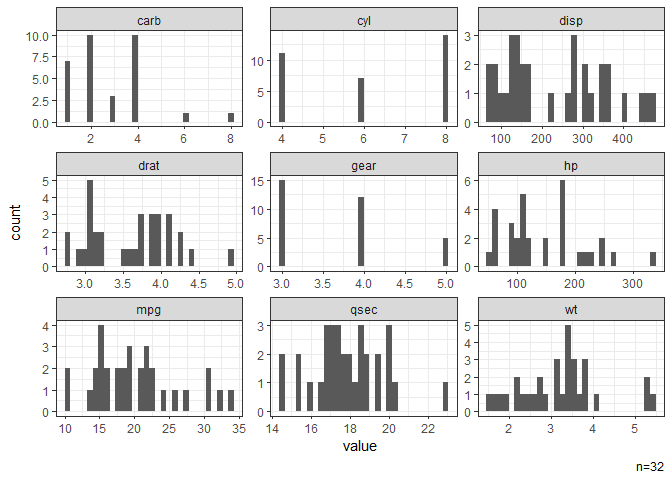
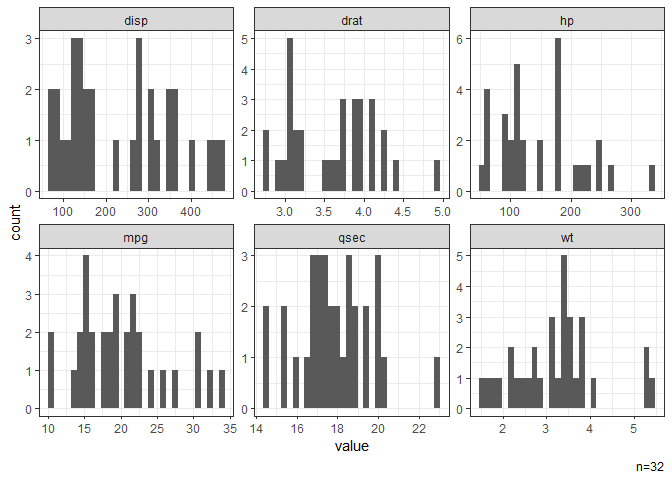
Update README

diff --git a/README.md b/README.md
@@ -65,25 +65,22 @@ It is often helpful to see a quick summary of the dataset.
 library(edar)
 
 # Data 
-dat = mtcars |> dplyr::mutate(vs=factor(vs), am=factor(am))
+dat = mtcars |> dplyr::mutate(across(c(am,carb,cyl,gear,vs),factor))
 
 # Summaries of all continuous variables in a data frame. 
 dat |> summ_by()
 #> NB: Non-numeric variables are dropped.
-#> Dropped: vs am
+#> Dropped: cyl vs am gear carb
 #> Adding missing grouping variables: `name`
-#> # A tibble: 9 × 10
+#> # A tibble: 6 × 10
 #>   name      n   nNA   Mean      SD   Min    P25    Med    P75    Max
 #>   <chr> <int> <int>  <dbl>   <dbl> <dbl>  <dbl>  <dbl>  <dbl>  <dbl>
-#> 1 carb     32     0   2.81   1.62   1      2      2      4      8   
-#> 2 cyl      32     0   6.19   1.79   4      4      6      8      8   
-#> 3 disp     32     0 231.   124.    71.1  121.   196.   326    472   
-#> 4 drat     32     0   3.60   0.535  2.76   3.08   3.70   3.92   4.93
-#> 5 gear     32     0   3.69   0.738  3      3      4      4      5   
-#> 6 hp       32     0 147.    68.6   52     96.5  123    180    335   
-#> 7 mpg      32     0  20.1    6.03  10.4   15.4   19.2   22.8   33.9 
-#> 8 qsec     32     0  17.8    1.79  14.5   16.9   17.7   18.9   22.9 
-#> 9 wt       32     0   3.22   0.978  1.51   2.58   3.32   3.61   5.42
+#> 1 disp     32     0 231.   124.    71.1  121.   196.   326    472   
+#> 2 drat     32     0   3.60   0.535  2.76   3.08   3.70   3.92   4.93
+#> 3 hp       32     0 147.    68.6   52     96.5  123    180    335   
+#> 4 mpg      32     0  20.1    6.03  10.4   15.4   19.2   22.8   33.9 
+#> 5 qsec     32     0  17.8    1.79  14.5   16.9   17.7   18.9   22.9 
+#> 6 wt       32     0   3.22   0.978  1.51   2.58   3.32   3.61   5.42
 
 # Summaries of a selected variable after grouping. 
 dat |> summ_by(mpg,vs)
@@ -93,21 +90,18 @@ dat |> summ_by(mpg,vs)
 #>   <fct> <int> <int> <dbl> <dbl> <dbl> <dbl> <dbl> <dbl> <dbl>
 #> 1 0        18     0  16.6  3.86  10.4  14.8  15.6  19.1  26  
 #> 2 1        14     0  24.6  5.38  17.8  21.4  22.8  29.6  33.9
-dat |> summ_by(mpg,vs,am)
-#> Adding missing grouping variables: `vs`, `am`
-#> # A tibble: 4 × 11
-#> # Groups:   vs [2]
-#>   vs    am        n   nNA  Mean    SD   Min   P25   Med   P75   Max
-#>   <fct> <fct> <int> <int> <dbl> <dbl> <dbl> <dbl> <dbl> <dbl> <dbl>
-#> 1 0     0        12     0  15.0  2.77  10.4  14.0  15.2  16.6  19.2
-#> 2 0     1         6     0  19.8  4.01  15    16.8  20.4  21    26  
-#> 3 1     0         7     0  20.7  2.47  17.8  18.6  21.4  22.2  24.4
-#> 4 1     1         7     0  28.4  4.76  21.4  25.0  30.4  31.4  33.9
 
 # Summaries of all categorical variables in a data frame. 
 dat |> summ_cat()
 #> NB: Numeric variables are dropped.
-#> Dropped: mpg cyl disp hp drat wt qsec gear carb
+#> Dropped: mpg disp hp drat wt qsec
+#> $cyl
+#>    cyl  n percent
+#>      4 11 0.34375
+#>      6  7 0.21875
+#>      8 14 0.43750
+#>  Total 32 1.00000
+#> 
 #> $vs
 #>     vs  n percent
 #>      0 18  0.5625
@@ -119,9 +113,29 @@ dat |> summ_cat()
 #>      0 19 0.59375
 #>      1 13 0.40625
 #>  Total 32 1.00000
+#> 
+#> $gear
+#>   gear  n percent
+#>      3 15 0.46875
+#>      4 12 0.37500
+#>      5  5 0.15625
+#>  Total 32 1.00000
+#> 
+#> $carb
+#>   carb  n percent
+#>      1  7 0.21875
+#>      2 10 0.31250
+#>      3  3 0.09375
+#>      4 10 0.31250
+#>      6  1 0.03125
+#>      8  1 0.03125
+#>  Total 32 1.00000
 ```
 
 ### Visualisation
+
+Distributions of variables can be quickly visualised for exploratory
+graphical analysis.
 
 ``` r
 library(ggplot2)
@@ -131,34 +145,38 @@ set_theme(theme_bw())
 # Histograms of all continuous variables in a dataset. 
 dat |> gghist()
 #> NB: Non-numeric variables are dropped.
-#> Dropped: vs am
+#> Dropped: cyl vs am gear carb
 ```
 
 <img src="man/figures/README-unnamed-chunk-4-1.png" width="70%" />
 
 ``` r
 
-# Box plots of selected variable by all categorical variables in a dataset. 
+# Box plots of a selected variable by all categorical variables in a dataset. 
 dat |> ggbox(mpg)
 #> NB: Numeric variables are dropped.
-#> Dropped: cyl disp hp drat wt qsec gear carb
+#> Dropped: disp hp drat wt qsec
 ```
 
 <img src="man/figures/README-unnamed-chunk-4-2.png" width="70%" />
 
 ``` r
 
-# Violin plots of selected variable by all categorical variables in a dataset. 
+# Violin plots of a selected variable by all categorical variables in a dataset. 
 dat |> ggvio(mpg)
 #> NB: Numeric variables are dropped.
-#> Dropped: cyl disp hp drat wt qsec gear carb
+#> Dropped: disp hp drat wt qsec
+#> Warning: Groups with fewer than two datapoints have been dropped.
+#> ℹ Set `drop = FALSE` to consider such groups for position adjustment purposes.
+#> Warning: Groups with fewer than two datapoints have been dropped.
+#> ℹ Set `drop = FALSE` to consider such groups for position adjustment purposes.
 ```
 
 <img src="man/figures/README-unnamed-chunk-4-3.png" width="70%" />
 
 ### Tables
 
-Tables can be directly viewed in a flextable object.
+Tables can be viewed directly in a flextable object.
 
 ``` r
 # Show data frame in a flextable object. 
@@ -170,21 +188,21 @@ dat |> summ_by(mpg,vs) |> ft()
 
 ### Labels
 
-It is often good practice to add a label in the output indicating the
-source file.
+A label indicating the current source file with a time stamp can be
+easily generated for annotation.
 
 ``` r
-# A label indicating the current source file with a time stamp can be easily generated for annotation. 
+# To generate a source file label for annotation 
 lab = label_src()
 ```
 
 ``` r
-# A source label can be directly added to the flextable output. 
+# A source file label can be directly added to the flextable output. 
 dat |> summ_by(mpg,vs) |> ft(src=1)
 ```
 
 ``` r
-# A source label can be directly added to a ggplot object. 
+# A source file label can be directly added to a ggplot object. 
 p = ggplot(mtcars, aes(mpg, wt)) + geom_point() 
 p |> ggsrc()
 ```
